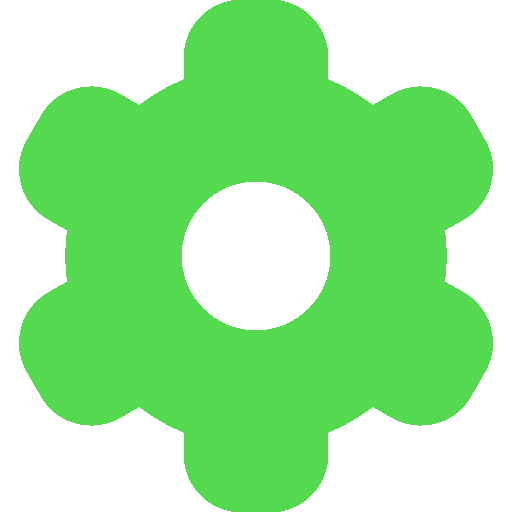
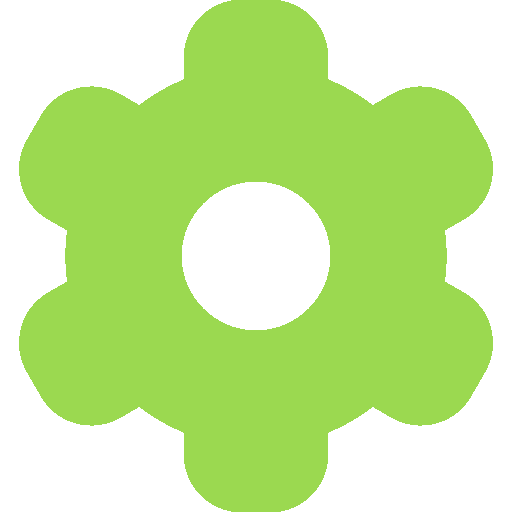
[PATCH] --red6 color changed

diff --git a/styles/var.css b/styles/var.css
@@ -3,4 +3,6 @@
 	--red2 : rgb(217, 85, 80);
 	--red3 : #fee;
 	--red4 : rgb(177, 65, 60);
+	--red5 : rgb(190, 160, 160);
+	--red6 : rgb(155, 217, 80)
 }
